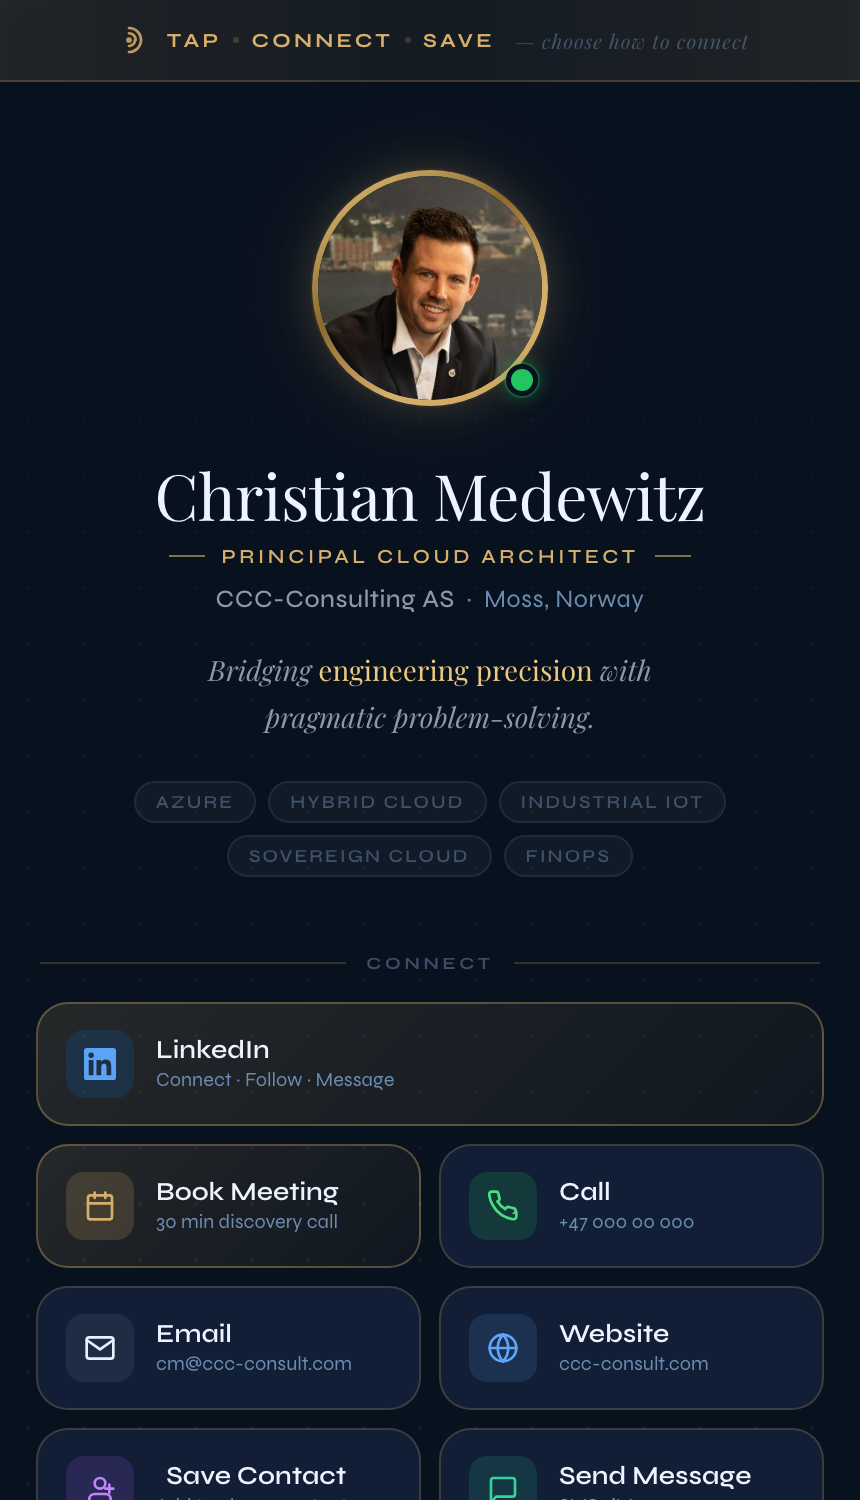
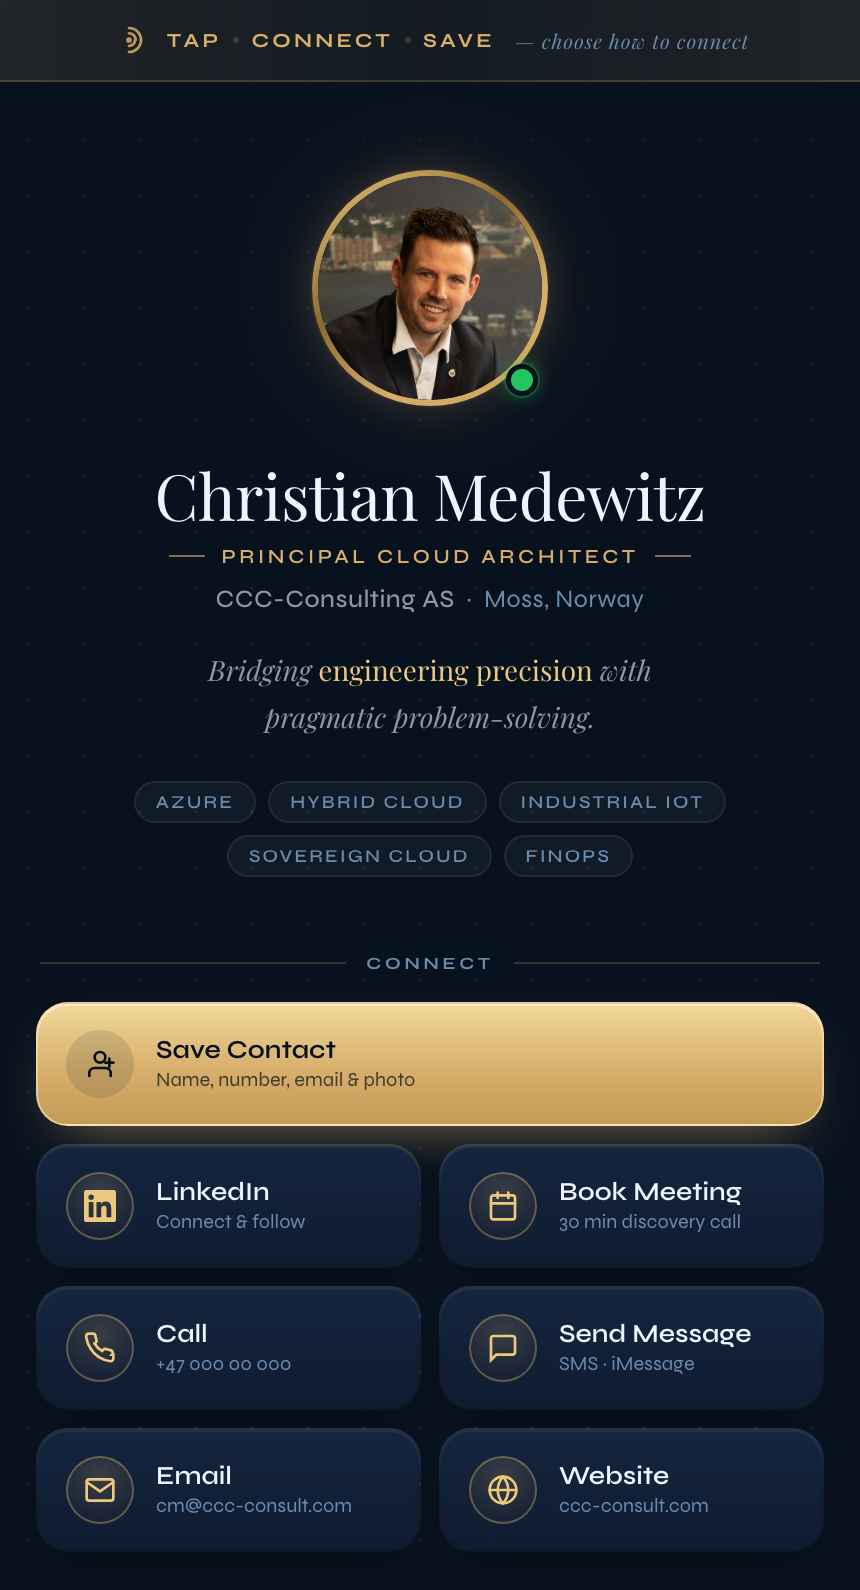
Update README screenshots and notes for reference card v1.4
The screenshots now show v1.4: Save Contact as the one gold button at the
top, lit tiles with a single gold icon style, and clearer small text. The
phone number stays redacted, and the QR code still points at LinkedIn
(pixel-identical to the previous image). A caption marks the version, and
a short section lists the v1.4 touches that the prompt doesn't ask for.

diff --git a/README.md b/README.md
@@ -6,9 +6,11 @@ replacement for a paper business card. This repo is a guide + AI prompt for
 building your **own** version, with your own identity and your own design.
 
 <p align="center">
-  <img src="images/hero-section.png" width="45%" alt="Reference card hero section" />
-  <img src="images/qr-section.png" width="45%" alt="Reference card QR fallback section" />
+  <img src="images/hero-section.png" width="45%" alt="Reference card v1.4: hero section and contact buttons" />
+  <img src="images/qr-section.png" width="45%" alt="Reference card v1.4: QR fallback section" />
 </p>
+<p align="center"><sub>The reference card as of v1.4 (October 2026). If you came here
+from the video: it shows an earlier version with the same structure.</sub></p>
 
 This isn't a template to fork and re-skin — it's a prompt designed to make
 your AI coding assistant **ask you questions** about your own identity, your
@@ -51,6 +53,22 @@ yours, not a copy of this one.
 - Zero backend, zero database, zero tracking — a static site with a couple
   of scheduled GitHub Actions workflows doing the only "dynamic" work.
 - Deployed for free on Azure Static Web Apps.
+
+## New in the reference card (v1.4)
+
+The reference card has a few finishing touches that the prompt doesn't ask
+for. If you like them, ask your assistant for them:
+
+- **One clear main action.** "Save Contact" is the only solid gold button,
+  at the top of the grid; every other button is a quieter tile.
+- **Subtle motion that respects the visitor.** A light glint on the photo
+  ring, a one-time shimmer across the name, and sections that rise in as
+  you scroll. All of it switches off when the visitor has "Reduce Motion"
+  turned on.
+- **Readable small print.** Dates and labels meet the 4.5:1 contrast
+  minimum instead of fading into the background.
+- **Better article summaries.** Each post's summary is its SEO description
+  when it has one, rather than the first lines of the post.
 
 ## License
 
